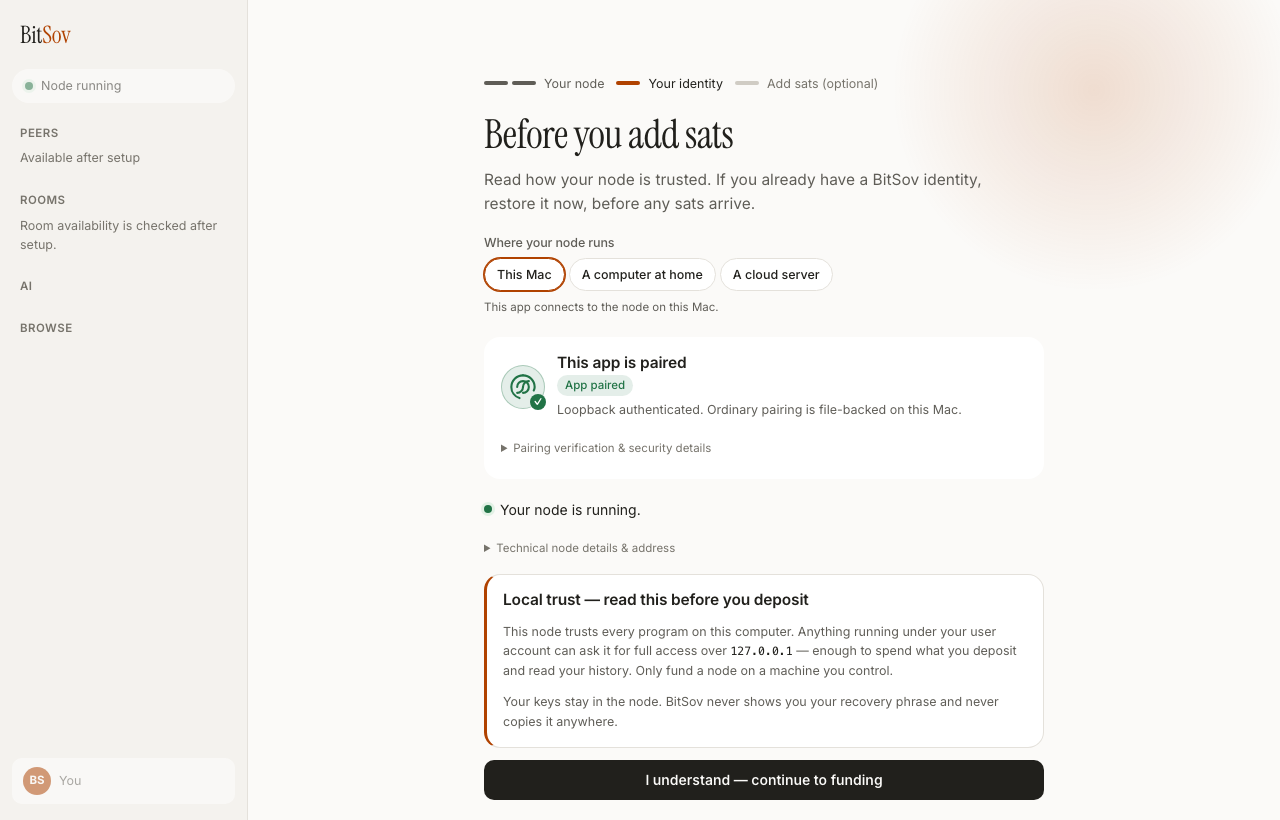
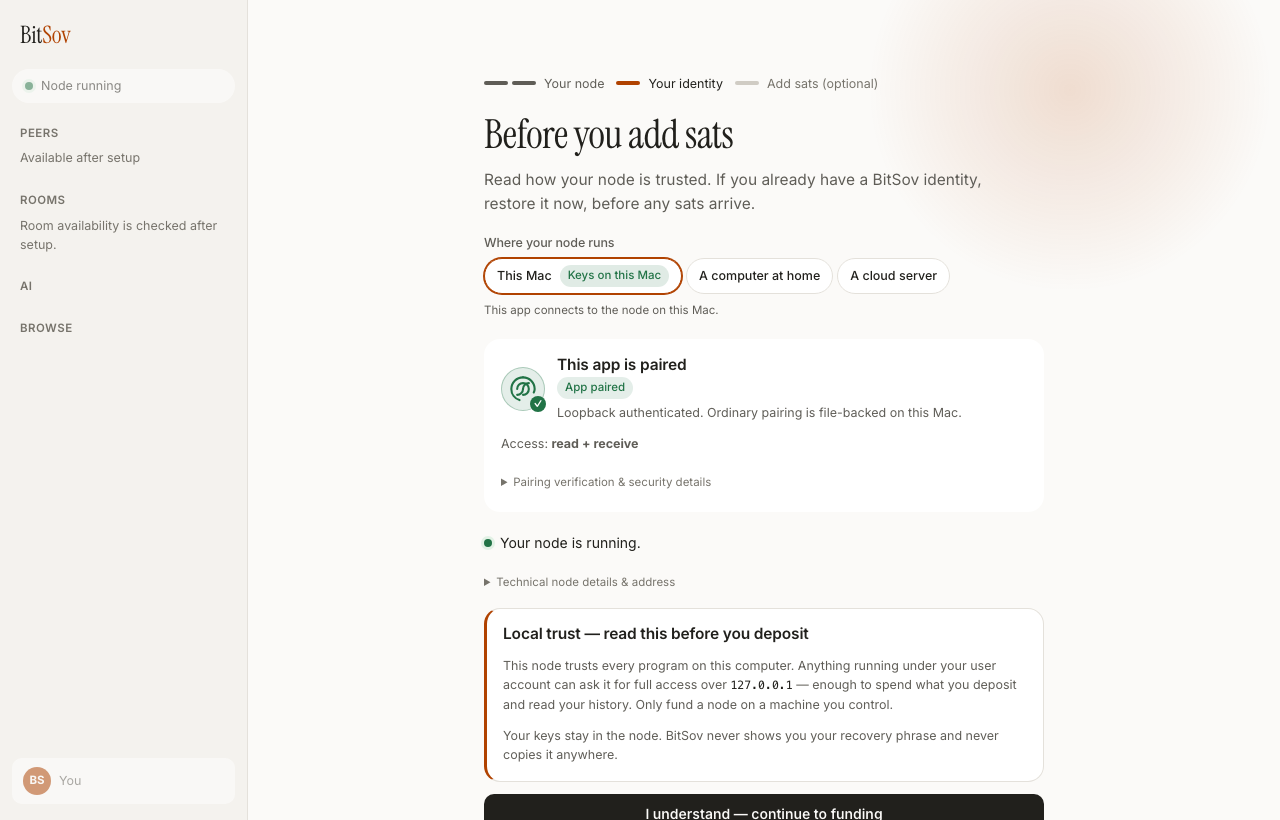
fix(ui): review fixes for onboarding (#138 Grok FAIL + non-blocking)
Blocking (Grok): the trust-stage lede offered 'restore it now' on an
identity-free (bootstrap) node, where restore waits on the genome
release. It now says creating or restoring an identity from this app is
not available on this node yet; test asserts both cases.

Non-blocking:
- 'Access: <scopes>' is visible again on the paired panel, outside the
  details disclosure (asserted).
- Compact location pills keep the custody badge on the chosen location.
- The ember glow no longer overflows, so the first-run column drops
  overflow-x: hidden (no focus-ring clipping).
- Reduced motion: location cards no longer lift on hover.
- #137 nits: fonts README says where the woff2 files live; stale '.sats
  is mono' comment fixed.

diff --git a/src/styles.css b/src/styles.css
@@ -167,7 +167,7 @@ h1, h2, h3 { font-family: var(--font-sans); font-weight: 600; letter-spacing: -0
 p { margin: 0; }
 code, .mono { font-family: var(--font-mono); font-size: 0.92em; }
 
-/* sats and ids: mono, tabular, never wrapped mid-number */
+/* sats: tabular figures, never wrapped mid-number; ids: mono */
 .sats { font-family: var(--font-sans); font-variant-numeric: tabular-nums; white-space: nowrap; }
 .sats .unit { color: var(--muted); margin-left: 0.3em; font-size: 0.85em; }
 .id { font-family: var(--font-mono); font-size: var(--t-sm); color: var(--muted); letter-spacing: 0.02em; }
@@ -527,9 +527,9 @@ select { font: inherit; font-size: var(--t-sm); background: var(--sunk); color: 
 .fresh-line.stale { color: var(--warn); }
 
 /* first run, inside the shell ------------------------------------------- */
-.first-run { position: relative; isolation: isolate; flex: 1; min-height: 0; overflow-y: auto; overflow-x: hidden; padding: clamp(var(--s-8), 9vh, 88px) var(--s-6) var(--s-10); display: flex; flex-direction: column; align-items: center; gap: var(--s-5); }
+.first-run { position: relative; isolation: isolate; flex: 1; min-height: 0; overflow-y: auto; padding: clamp(var(--s-8), 9vh, 88px) var(--s-6) var(--s-10); display: flex; flex-direction: column; align-items: center; gap: var(--s-5); }
 /* The one ambient touch: a faint ember glow behind the first-run column. */
-.first-run::before { content: ''; position: absolute; z-index: -1; top: -120px; left: calc(50% + 120px); width: 420px; height: 420px; border-radius: 50%; background: radial-gradient(circle, color-mix(in srgb, var(--money) 16%, transparent), transparent 68%); pointer-events: none; }
+.first-run::before { content: ''; position: absolute; z-index: -1; top: -120px; right: 0; width: min(420px, 45%); height: 420px; border-radius: 50%; background: radial-gradient(circle, color-mix(in srgb, var(--money) 16%, transparent), transparent 68%); pointer-events: none; }
 .first-run > * { width: 100%; max-width: 560px; }
 /* Onboarding's own actions are neutral: orange stays for sats. */
 .first-run .primary { background: var(--action-bg); color: var(--action-ink); }
@@ -563,7 +563,10 @@ select { font: inherit; font-size: var(--t-sm); background: var(--sunk); color: 
 .node-target-section.compact .node-target-grid { flex-direction: row; flex-wrap: wrap; gap: var(--s-1); }
 .node-target-section.compact .node-target-card { padding: 6px 12px; border-radius: var(--r-chip); align-items: center; gap: var(--s-2); }
 .node-target-section.compact .node-target-card:hover { transform: none; }
-.node-target-section.compact .target-icon, .node-target-section.compact .target-info p, .node-target-section.compact .target-head .row { display: none; }
+.node-target-section.compact .target-icon, .node-target-section.compact .target-info p, .node-target-section.compact .target-radio-indicator { display: none; }
+/* Compact pills keep the custody badge on the chosen location only. */
+.node-target-section.compact .node-target-card:not(.selected) .target-head .row { display: none; }
+.node-target-section.compact .target-head { flex-wrap: nowrap; }
 .node-target-section.compact .target-head strong { font-size: var(--t-sm); font-weight: 500; }
 .connect-line { font-size: var(--t-xs); }
 .target-info { flex: 1; display: flex; flex-direction: column; gap: 3px; min-width: 0; }
@@ -624,6 +627,8 @@ select { font: inherit; font-size: var(--t-sm); background: var(--sunk); color: 
 .step-optional { color: var(--faint); }
 .ob-head { display: flex; flex-direction: column; gap: var(--s-3); animation: arrive var(--d-slow) var(--ease-out); }
 .ob-head h1 { font-family: var(--font-display); font-weight: 400; font-size: var(--t-display); letter-spacing: -0.015em; line-height: 1.08; text-wrap: balance; }
+@media (prefers-reduced-motion: reduce) { .node-target-card:hover { transform: none; } }
+.pairing-access { font-size: var(--t-sm); color: var(--muted); }
 .ob-head .lede { color: var(--muted); font-size: var(--t-lg); line-height: 1.5; max-width: 52ch; }
 .remote-form { animation: arrive var(--d-mid) var(--ease-out); }
 .first-run .state.ready { animation: arrive var(--d-slow) var(--ease-out); }

diff --git a/src/onboarding/Onboarding.tsx b/src/onboarding/Onboarding.tsx
@@ -107,7 +107,12 @@ export function Onboarding(props: {
         fallback={
           <header class="ob-head" data-ob-head="trust">
             <h1>Before you add sats</h1>
-            <p class="lede">Read how your node is trusted. If you already have a BitSov identity, restore it now, before any sats arrive.</p>
+            <Show
+              when={!props.pairing().bootstrap}
+              fallback={<p class="lede">Read how your node is trusted. Creating or restoring an identity from this app is not available on this node yet.</p>}
+            >
+              <p class="lede">Read how your node is trusted. If you already have a BitSov identity, restore it now, before any sats arrive.</p>
+            </Show>
           </header>
         }
       >
@@ -286,6 +291,10 @@ export function Onboarding(props: {
               </div>
             </div>
 
+            <p class="pairing-access">
+              Access: <strong>{scopeList(props.pairing().scopes)}</strong>
+            </p>
+
             <Show when={props.pairing().bootstrap}>
               <p class="hint" data-identity-free>
                 Your node is identity-free (fresh install). Creating or restoring an identity
@@ -298,9 +307,6 @@ export function Onboarding(props: {
             <details class="pairing-details">
               <summary>Pairing verification & security details</summary>
               <div class="pairing-details-body">
-                <p>
-                  Access: <strong>{scopeList(props.pairing().scopes)}</strong>
-                </p>
                 <Show when={props.pairing().short_code}>
                   <p class="short-code" data-short-code>
                     Pairing code <code>{props.pairing().short_code}</code>

diff --git a/tests/onboarding-pairing.test.tsx b/tests/onboarding-pairing.test.tsx
@@ -387,5 +387,19 @@ describe('pairing panel', () => {
     // Still a real choice once compact.
     expect(later.querySelectorAll('[role="radio"]').length).toBe(3);
   });
+  it('never offers restore on an identity-free node, and keeps the access scopes in view', () => {
+    const el = show({ ...paired, bootstrap: 'identity-free' }, ready);
+    const head = el.querySelector('[data-ob-head="trust"]')!;
+    expect(head.textContent).not.toContain('restore it now');
+    expect(head.textContent).toContain('not available on this node yet');
+    const access = el.querySelector('[data-pairing="paired"] .pairing-access')!;
+    expect(access.textContent).toContain('read + receive');
+    expect(access.closest('details')).toBeNull();
+    dispose?.();
+    mount?.remove();
+
+    const normal = show(paired, ready);
+    expect(normal.querySelector('[data-ob-head="trust"]')!.textContent).toContain('restore it now');
+  });
 });
 

diff --git a/third_party/fonts/README.md b/third_party/fonts/README.md
@@ -2,8 +2,9 @@
 
 `src/assets/fonts/` ships these faces inside the app bundle. They are taken from the
 Fontsource 5.3.0 packages, latin subset only. Both are licensed under the SIL Open Font
-License 1.1; the full licence texts sit next to this file. They are kept out of `src/`
-because the authority gate (`scripts/authority-check.sh`, G2) scans `src/` for URLs.
+License 1.1; the full licence texts sit next to this file. The font files live in
+`src/assets/fonts/`; only these licence texts are kept out of `src/`, because they contain URLs
+and the authority gate (`scripts/authority-check.sh`, G2) scans `src/` for them.
 
 | File | Family | Licence |
 |------|--------|---------|
